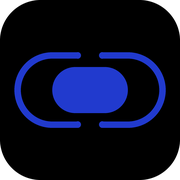
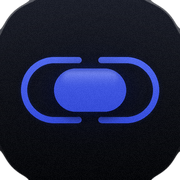
Icono con acabado de app de Apple: forma de macOS, degradados, resplandor y reflejo

diff --git a/app/build/icono.py b/app/build/icono.py
@@ -1,0 +1,108 @@
+# Icono de Cabina con acabado de app de Apple: mismo dibujo (dos C enfrentadas y una cápsula dentro),
+# con forma de icono de macOS, degradados, resplandor y reflejo. Todo se dibuja a 4x y se reduce.
+from PIL import Image, ImageDraw, ImageFilter, ImageChops
+import math
+
+def lin_grad(N, top, bottom):
+    """Degradado vertical RGBA de N×N, fila a fila (sin escalones)."""
+    g = Image.new('RGBA', (1, N))
+    for y in range(N):
+        t = y / (N - 1)
+        g.putpixel((0, y), tuple(round(top[i] + (bottom[i] - top[i]) * t) for i in range(4)))
+    return g.resize((N, N), Image.NEAREST)
+
+def dither(im, amount=2.2):
+    """Grano casi invisible para que los degradados oscuros no hagan bandas."""
+    n = Image.effect_noise(im.size, 64).point(lambda v: round(128 + (v - 128) * amount / 64))
+    r, g, b, a = im.split()
+    off = lambda c: ImageChops.add(c, n, 1.0, -128)  # c + ruido - 128, recortando una sola vez
+    return Image.merge('RGBA', (off(r), off(g), off(b), a))
+
+def squircle(N, box):
+    """Máscara con la forma de los iconos de Apple: lados rectos y esquinas de curvatura continua
+    (rectángulo redondeado al 22,4 % suavizado, que reparte la curva como hace Apple)."""
+    x0, y0, x1, y1 = box; side = x1 - x0
+    m = Image.new('L', (N, N), 0)
+    ImageDraw.Draw(m).rounded_rectangle(box, radius=side * 0.235, fill=255)
+    return m.filter(ImageFilter.GaussianBlur(side * 0.028)).point(lambda v: 255 if v > 127 else 0).filter(ImageFilter.GaussianBlur(1.2))
+
+def rings_mask(N, cx, cy, w, h, sw, gap):
+    m = Image.new('L', (N, N), 0); d = ImageDraw.Draw(m)
+    x0, y0, x1, y1 = cx - w / 2, cy - h / 2, cx + w / 2, cy + h / 2
+    d.rounded_rectangle((x0, y0, x1, y1), radius=h / 2, fill=255)
+    d.rounded_rectangle((x0 + sw, y0 + sw, x1 - sw, y1 - sw), radius=h / 2 - sw, fill=0)
+    g = w * gap / 2
+    d.rectangle((cx - g - sw / 2, 0, cx + g + sw / 2, N), fill=0)
+    for sx in (-1, 1):
+        for yy in (y0 + sw / 2, y1 - sw / 2):
+            x = cx + sx * (g + sw / 2); d.ellipse((x - sw / 2, yy - sw / 2, x + sw / 2, yy + sw / 2), fill=255)
+    return m
+
+def pill_mask(N, cx, cy, w, h):
+    m = Image.new('L', (N, N), 0)
+    ImageDraw.Draw(m).rounded_rectangle((cx - w / 2, cy - h / 2, cx + w / 2, cy + h / 2), radius=h / 2, fill=255)
+    return m
+
+def paint(base, mask, layer):
+    base.alpha_composite(Image.composite(layer, Image.new('RGBA', base.size, (0, 0, 0, 0)), mask))
+
+def mul_alpha(mask, a):
+    return mask.point(lambda v: round(v * a))
+
+def icon(size, mac_margin=True):
+    S = 4; N = size * S
+    im = Image.new('RGBA', (N, N), (0, 0, 0, 0))
+    # Rejilla de iconos de macOS: 824/1024 de forma, centrada, con sombra
+    k = 824 / 1024 if mac_margin else 1.0
+    side = N * k; off = (N - side) / 2
+    box = (off, off - (N * 0.006 if mac_margin else 0), off + side, off + side - (N * 0.006 if mac_margin else 0))
+    sq = squircle(N, box)
+    if mac_margin:
+        sh = Image.new('RGBA', (N, N), (0, 0, 0, 0))
+        sh.putalpha(mul_alpha(sq, 0.55).transform((N, N), Image.AFFINE, (1, 0, 0, 0, 1, -N * 0.012)).filter(ImageFilter.GaussianBlur(N * 0.018)))
+        im.alpha_composite(sh)
+    # Fondo: casi negro con un poco de azul arriba
+    paint(im, sq, lin_grad(N, (28, 31, 42, 255), (6, 7, 10, 255)))
+    cx = cy = N / 2
+    U = side  # todas las medidas, relativas al lado de la forma
+    w = U * 0.80; h = w / 2; sw = h * 0.085
+    # Brillo azul detrás del centro
+    glow = Image.new('L', (N, N), 0)
+    ImageDraw.Draw(glow).ellipse((cx - U * 0.36, cy - U * 0.22, cx + U * 0.36, cy + U * 0.22), fill=110)
+    glow = ImageChops.multiply(glow.filter(ImageFilter.GaussianBlur(U * 0.12)), sq)
+    paint(im, glow, Image.new('RGBA', (N, N), (33, 58, 206, 255)))
+    # Aros: degradado azul claro → azul de Cabina, con resplandor
+    rm = rings_mask(N, cx, cy, w - sw, h - sw, sw, 0.12)
+    halo = mul_alpha(rm.filter(ImageFilter.GaussianBlur(U * 0.02)), 0.75)
+    paint(im, halo, Image.new('RGBA', (N, N), (60, 90, 255, 255)))
+    paint(im, rm, lin_grad(N, (104, 130, 255, 255), (30, 52, 205, 255)))
+    # Cápsula: mismo degradado más intenso, resplandor y sombra debajo
+    pw, ph = w * 0.5, h * 0.6  # mismas proporciones que el logo plano
+    pm = pill_mask(N, cx, cy, pw, ph)
+    sh = mul_alpha(pill_mask(N, cx, cy + U * 0.02, pw, ph).filter(ImageFilter.GaussianBlur(U * 0.025)), 0.7)
+    paint(im, sh, Image.new('RGBA', (N, N), (0, 0, 0, 255)))
+    paint(im, mul_alpha(pm.filter(ImageFilter.GaussianBlur(U * 0.045)), 0.8), Image.new('RGBA', (N, N), (45, 75, 255, 255)))
+    paint(im, pm, lin_grad(N, (98, 124, 255, 255), (26, 46, 192, 255)))
+    # Reflejo de cristal en la mitad de arriba de la cápsula
+    hl = pill_mask(N, cx, cy - ph * 0.25, pw - ph * 0.3, ph * 0.42)
+    hl = ImageChops.multiply(hl.filter(ImageFilter.GaussianBlur(U * 0.012)), pm)
+    sheen = lin_grad(N, (255, 255, 255, 120), (255, 255, 255, 0))
+    sheen = sheen.crop((0, 0, N, N))
+    # el degradado del reflejo va de arriba a abajo de la propia cápsula
+    top = cy - ph / 2; bot = cy
+    g = Image.new('RGBA', (1, N), (0, 0, 0, 0))
+    for y in range(N):
+        t = min(1, max(0, (y - top) / (bot - top)))
+        g.putpixel((0, y), (255, 255, 255, round(95 * (1 - t) ** 2)))
+    paint(im, hl, g.resize((N, N)))
+    # Borde fino de luz arriba en la forma (como el canto del cristal)
+    edge = ImageChops.subtract(sq, squircle(N, (box[0] + S * 1.2, box[1] + S * 1.2, box[2] - S * 1.2, box[3] - S * 1.2)))
+    paint(im, edge, lin_grad(N, (255, 255, 255, 70), (255, 255, 255, 0)))
+    return dither(im.resize((size, size), Image.LANCZOS)) if size >= 64 else im.resize((size, size), Image.LANCZOS)
+
+
+if __name__ == '__main__':
+    # Genera los iconos desde la raíz del repositorio: python3 app/build/icono.py
+    icon(1024).save('app/build/icon.png')                          # Mac: con el margen y la sombra de macOS
+    icon(1024, mac_margin=False).save('app/build/icon-win.png')    # Windows: sin margen
+    icon(180, mac_margin=False).save('web/icono.png')              # pestaña de la web

diff --git a/MEMORIA.md b/MEMORIA.md
@@ -430,7 +430,7 @@ cabina/
 │   ├── preload.js              ← window.CABINA_APP para la web
 │   ├── picker.html, picker-preload.js ← elegir ventana o pantalla
 │   ├── offline.html            ← sin internet
-│   └── build/icon.png          ← icono (logo de Cabina, 512×512)
+│   └── build/                  ← icon.png (Mac, 1024), icon-win.png (Windows) e icono.py, que los genera
 ├── web/
 │   ├── index.html              ← toda la web en un archivo
 │   ├── icono.png               ← icono de la pestaña (logo de Cabina, 180×180)
@@ -593,7 +593,7 @@ Pendiente de probar en real: sesión entre dos ordenadores en redes distintas, y
 - **PeerJS**: MIT.
 - **web-noise-suppressor** (RNNoise): MIT; RNNoise es BSD.
 - **MediaPipe tasks-vision** y el modelo Face Landmarker: Apache 2.0.
-- **Logo de Cabina** (`web/icono.png`, `app/build/icon.png`): propio, diseñado por Pleiss el 27-10-2026 (sustituye al de 1st, blanco sobre círculo azul). Dos C enfrentadas que forman una cápsula partida arriba y abajo en el centro, con una cápsula rellena dentro, todo en el azul de Cabina (`#213ACE`) sobre un cuadrado negro con esquinas redondeadas. Medidas, relativas al lado del icono: cápsula exterior de 0,84 de ancho y la mitad de alto, trazo del 8,5 % de su alto, hueco entre las C del 12 % de su ancho (con remates redondos); cápsula interior de 0,42 × 0,255; esquinas del fondo de 0,225. Se dibuja con Pillow a 8 veces el tamaño y se reduce a 512 (app) y 180 (pestaña).
+- **Logo de Cabina** (`web/icono.png`, `app/build/icon.png`, `app/build/icon-win.png`): propio, diseñado por Pleiss el 27-10-2026 (sustituye al de 1st, blanco sobre círculo azul). Dos C enfrentadas que forman una cápsula partida arriba y abajo en el centro, con una cápsula rellena dentro, en el azul de Cabina sobre negro. Acabado de icono de Apple (27-10-2026): forma de icono de macOS (lados rectos y esquinas de curva continua; en la app de Mac con el margen de 824/1024 y sombra), fondo casi negro con degradado y un brillo azul detrás, aros y cápsula con degradado (de `#6882FF` a `#1E34CD`), resplandor, reflejo en la cápsula, canto de luz en el borde y un grano casi invisible para que los degradados no hagan bandas. Proporciones: aros de 0,80 del lado de la forma y la mitad de alto, trazo del 8,5 % de su alto, hueco entre las C del 12 % de su ancho; cápsula de la mitad de ancho y el 60 % de alto de los aros. Se genera con `python3 app/build/icono.py` (Pillow) desde la raíz: Mac con margen, Windows y la pestaña sin margen.
 - **hitmarker.mp3**: CC0 (aruscio28, Freesound 322640).
 - **Inter** y **JetBrains Mono** (`web/fuentes/`): SIL Open Font License 1.1.
 - **Iconos** de la barra: trazos de Lucide, ISC.
